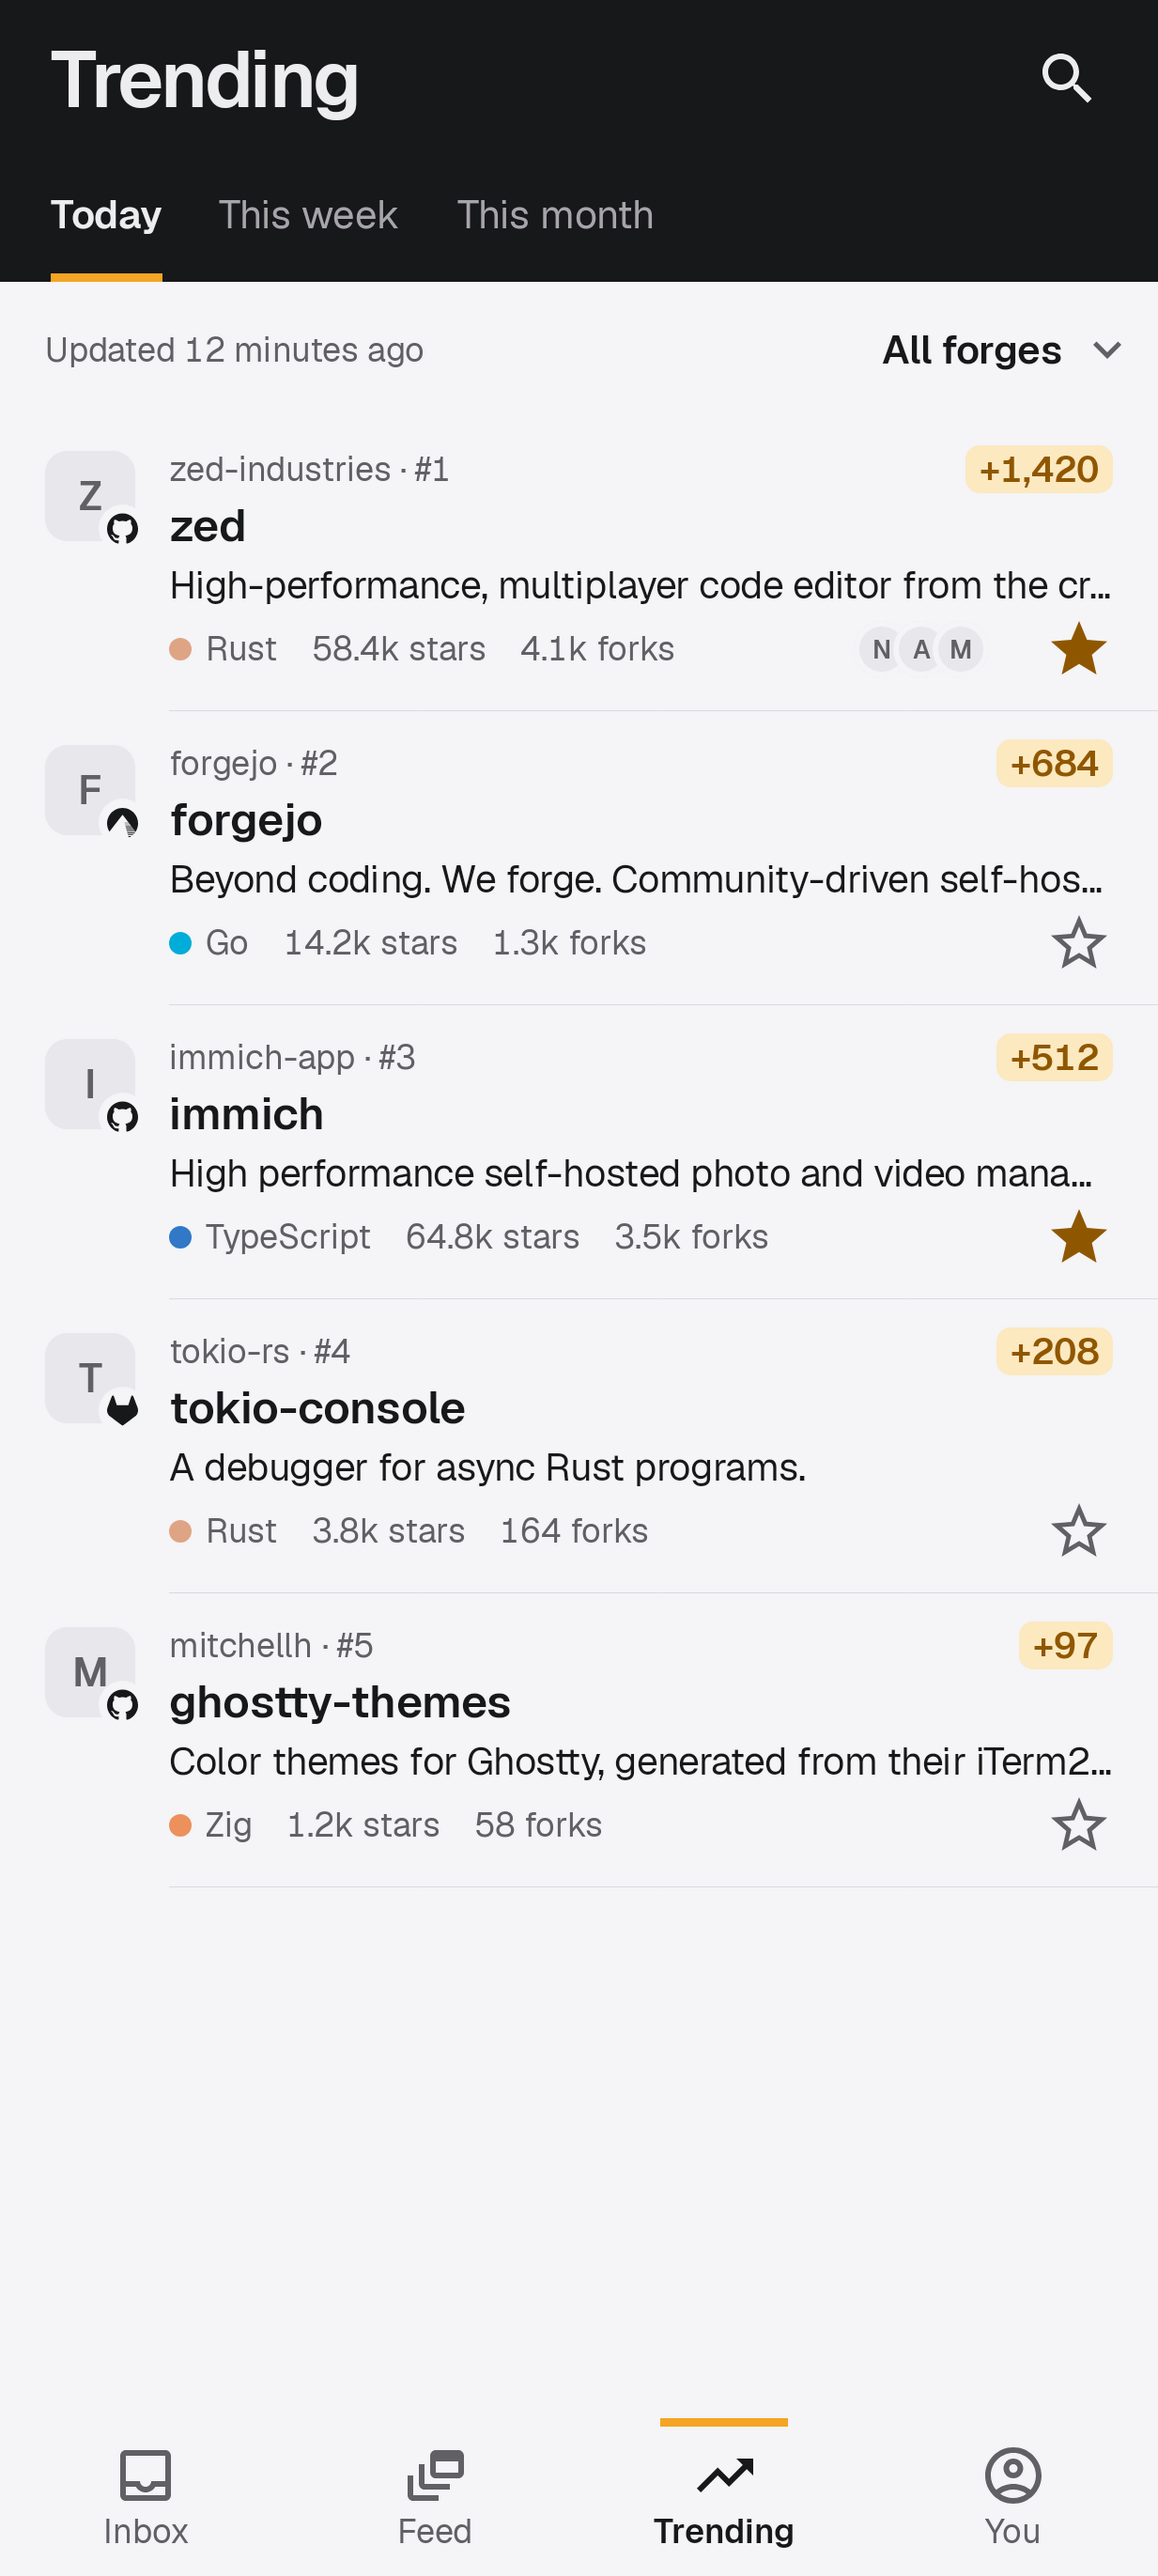
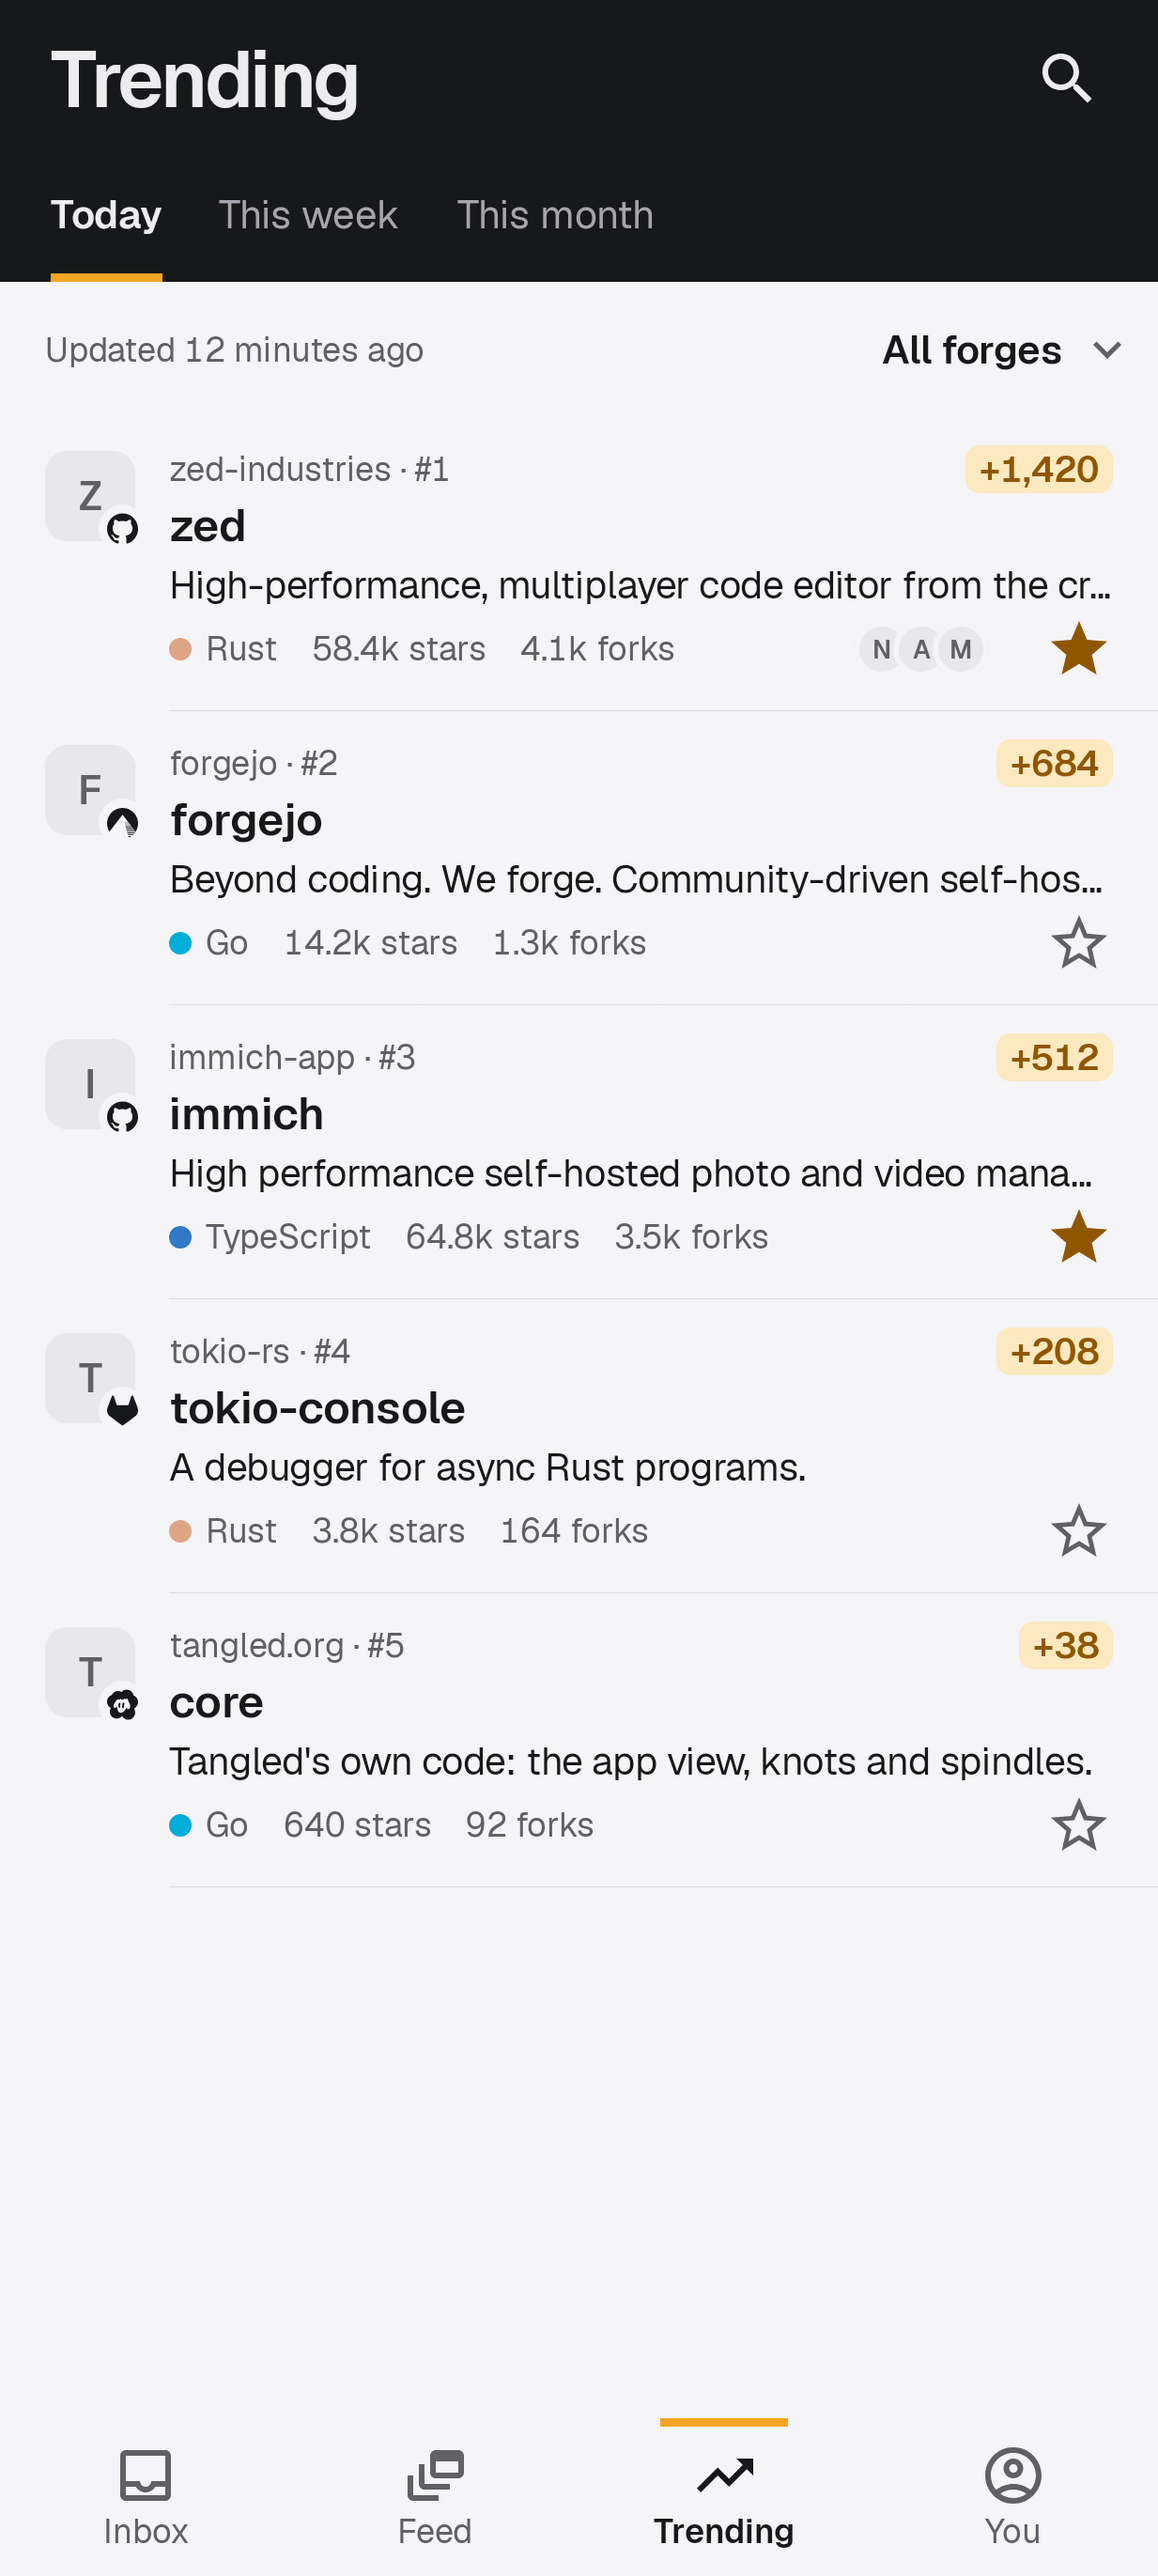
Show discussions, topics, First issues and Tangled in the site, store and README pictures
Re-rendered from the current screens: six of the site's pictures had changed (the Inbox's "mark them done" row, the Code theme setting, Tangled on Trending). The site gains Topics, First issues and Discussions views, the store eight pictures instead of six, and the README hero the site's current copy, without its buttons.

diff --git a/site/index.html b/site/index.html
@@ -159,7 +159,7 @@
               <div class="device-viewport">
                 <img
                   src="./screenshots/trending_mixed_forges_light.webp"
-                  alt="Forgeline Trending screen combining GitHub, GitLab, and Codeberg repositories"
+                  alt="Forgeline Trending screen combining GitHub, Codeberg, GitLab, and Tangled repositories"
                   width="1080"
                   height="2400"
                 >
@@ -420,9 +420,11 @@
           <div class="visual-stage">
             <!-- Same order: Trending, Chronological Feed, Where you left off -->
             <div class="stage-pills" role="group" aria-label="Discovery and Feed screenshot view">
-              <button type="button" class="stage-pill" data-stage-target="discovery-stage" data-src="./screenshots/trending_mixed_forges_light.webp" data-caption="Trending · GitHub, GitLab &amp; Codeberg combined (Light)" aria-pressed="true">Cross-forge trending</button>
+              <button type="button" class="stage-pill" data-stage-target="discovery-stage" data-src="./screenshots/trending_mixed_forges_light.webp" data-caption="Trending · GitHub, Codeberg, GitLab &amp; Tangled combined (Light)" aria-pressed="true">Cross-forge trending</button>
               <button type="button" class="stage-pill" data-stage-target="discovery-stage" data-src="./screenshots/feed_mixed_forges_light.webp" data-caption="Chronological Feed · Releases, PRs &amp; activity across forges" aria-pressed="false">Chronological feed</button>
               <button type="button" class="stage-pill" data-stage-target="discovery-stage" data-src="./screenshots/feed_resume_light.webp" data-caption="'Where you left off' · Marks where your last Feed session stopped" aria-pressed="false">Where you left off</button>
+              <button type="button" class="stage-pill" data-stage-target="discovery-stage" data-src="./screenshots/topic_mixed_forges_light.webp" data-caption="Topic · The most starred of each forge, mixed" aria-pressed="false">Topics</button>
+              <button type="button" class="stage-pill" data-stage-target="discovery-stage" data-src="./screenshots/first_issues_light.webp" data-caption="First issues · Where to make a first contribution, on every forge" aria-pressed="false">First issues</button>
             </div>
             <div class="device-frame device-single">
               <div class="device-statusbar" aria-hidden="true">
@@ -434,13 +436,13 @@
                 <img
                   id="discovery-stage-img"
                   src="./screenshots/trending_mixed_forges_light.webp"
-                  alt="Forgeline Trending screen combining GitHub, GitLab, and Codeberg repositories"
+                  alt="Forgeline Trending screen combining GitHub, Codeberg, GitLab, and Tangled repositories"
                   width="1080"
                   height="2400"
                 >
               </div>
             </div>
-            <p class="stage-caption" id="discovery-stage-caption">Trending · GitHub, GitLab &amp; Codeberg combined (Light)</p>
+            <p class="stage-caption" id="discovery-stage-caption">Trending · GitHub, Codeberg, GitLab &amp; Tangled combined (Light)</p>
           </div>
         </div>
 
@@ -565,6 +567,7 @@
             <div class="stage-pills" role="group" aria-label="Code review and CI screenshot view">
               <button type="button" class="stage-pill" data-stage-target="review-stage" data-src="./screenshots/changes_light.webp" data-caption="Pull Request · Native unified file diffs (Light)" aria-pressed="true">PR diffs</button>
               <button type="button" class="stage-pill" data-stage-target="review-stage" data-src="./screenshots/run_failed_light.webp" data-caption="CI Pipeline · First job &amp; log output (Light)" aria-pressed="false">CI log</button>
+              <button type="button" class="stage-pill" data-stage-target="review-stage" data-src="./screenshots/discussion_light.webp" data-caption="GitHub Discussion · Answer, vote, react &amp; reply" aria-pressed="false">Discussions</button>
             </div>
             <div class="device-frame device-single">
               <div class="device-statusbar" aria-hidden="true">
